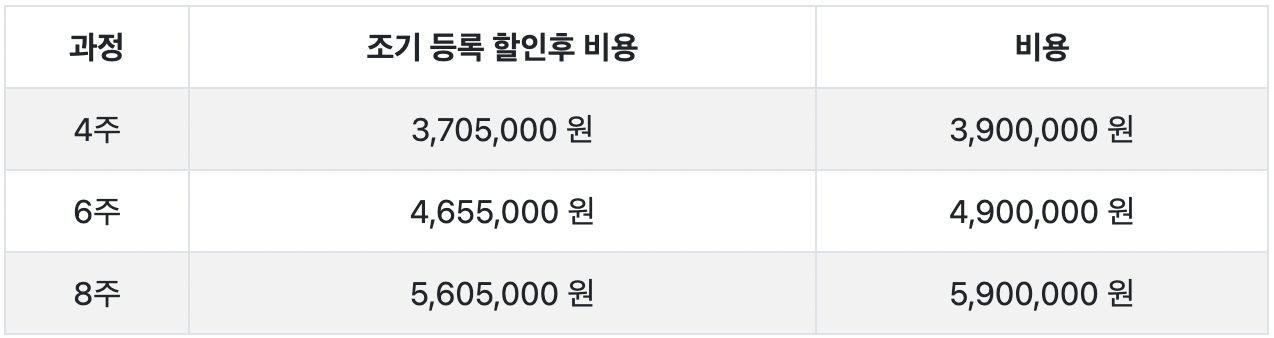
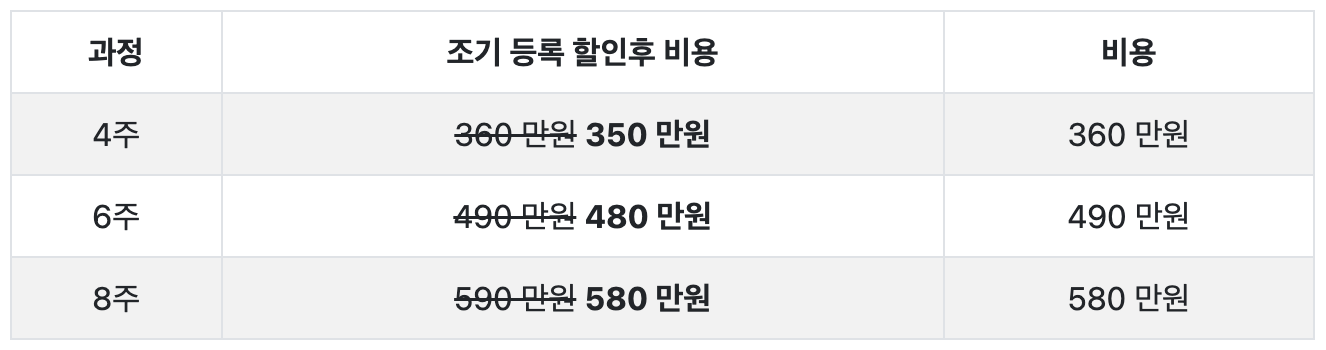
fix: english program change

diff --git a/src/components/pages/curriculum/CurriculumGuide.js b/src/components/pages/curriculum/CurriculumGuide.js
@@ -46,9 +46,10 @@ const CurriculumGuide = () => {
                 </div>
                 <div className='currGuidePriceSale'>
                   <div>
-                    조기 등록시 5% 할인 (2022년 10월 15일까지 예약금 100만원
+                    조기 등록시 10만원 할인 (2022년 10월 31일까지 예약금 100만원
                     입금시)
                   </div>
+                  <div>형제할인 10만원</div>
                   <div>무료 화상 영어 혜택 (4주간 25분씩 수업, 총 20회)</div>
                 </div>
                 <div className='currPriceTable text-center'>
@@ -63,18 +64,24 @@ const CurriculumGuide = () => {
                     <tbody>
                       <tr>
                         <td>4주</td>
-                        <td>3,705,000 원</td>
-                        <td>3,900,000 원</td>
+                        <td>
+                          <s>360 만원</s> <strong>350 만원</strong>
+                        </td>
+                        <td>360 만원</td>
                       </tr>
                       <tr>
                         <td>6주</td>
-                        <td>4,655,000 원</td>
-                        <td>4,900,000 원</td>
+                        <td>
+                          <s>490 만원</s> <strong>480 만원</strong>
+                        </td>
+                        <td>490 만원</td>
                       </tr>
                       <tr>
                         <td>8주</td>
-                        <td>5,605,000 원</td>
-                        <td>5,900,000 원</td>
+                        <td>
+                          <s>590 만원</s> <strong>580 만원</strong>
+                        </td>
+                        <td>580 만원</td>
                       </tr>
                     </tbody>
                   </Table>
@@ -96,22 +103,22 @@ const CurriculumGuide = () => {
                       <tr>
                         <td>4주 1차</td>
                         <td>인천 출발 / 부산 출발</td>
-                        <td>2023년 1월 1일 ~ 1월 28일</td>
+                        <td>12월 31일 ~ 1월 28일</td>
                       </tr>
                       <tr>
                         <td>4주 2차</td>
                         <td>인천 출발</td>
-                        <td>2023년 1월 15일 ~ 2월 11일</td>
+                        <td>1월 15일 ~ 2월 11일</td>
                       </tr>
                       <tr>
                         <td>6주</td>
                         <td>인천 출발 / 부산 출발</td>
-                        <td>2023년 1월 1일 ~ 2월 11일</td>
+                        <td>12월 31일 ~ 2월 11일</td>
                       </tr>
                       <tr>
                         <td>8주</td>
                         <td>인천 출발 / 부산 출발</td>
-                        <td>2023년 1월 1일 ~ 2월 25일</td>
+                        <td>12월 31일 ~ 2월 25일</td>
                       </tr>
                     </tbody>
                   </Table>

diff --git a/src/components/pages/curriculum/CurriculumProgram.js b/src/components/pages/curriculum/CurriculumProgram.js
@@ -110,6 +110,21 @@ const CurriculumProgram = () => {
                 </div>
               </div>
             </div>
+
+            <hr />
+            <div className='fs-4'>
+              <div className='classTitle'>수학 수업</div>
+              <div className='ps-3'>
+                <div className='fs-6'>
+                  <div className='classSubtitle'>학년별 그룹수업</div>
+                </div>
+              </div>
+            </div>
+
+            <hr />
+            <div className='fs-4'>
+              <div className='classTitle'>중국어 수업 (선택)</div>
+            </div>
           </div>
         </div>
       </div>

diff --git a/src/components/pages/home/comp/Schedule.js b/src/components/pages/home/comp/Schedule.js
@@ -4,13 +4,17 @@ import campPrice from '../../../../media/home/price.png';
 
 const Schedule = () => {
   return (
-    <div>
-      <div className='d-inline'>
+    <div className='row mt-2'>
+      <div className='col'>
+        <div className='fw-bolder fs-5 fontMICE'>영어캠프 스케줄</div>
         <img
           src={campSchedule}
           className='homeCampImg'
           alt='Camp Home Schedule'
         />
+      </div>
+      <div className='col'>
+        <div className='fw-bolder fs-5 fontMICE'>주니어 영어캠프 비용</div>
         <img src={campPrice} className='homeCampImg' alt='Camp Home Price' />
       </div>
     </div>

diff --git a/src/App.css b/src/App.css
@@ -102,6 +102,14 @@ img {
   width: 100%;
 }
 
+.fontIBM {
+  font-family: 'IBMPlexSansKR-Regular';
+}
+
+.fontMICE {
+  font-family: 'MICEGothic Bold';
+}
+
 /* Utilities */
 .container {
   max-width: 1100px;
@@ -1366,7 +1374,7 @@ table th {
 
 .homeCampImg {
   width: 600px;
-  padding-top: 2rem;
+  padding-top: 0.5rem;
   padding-bottom: 2rem;
 }
 
